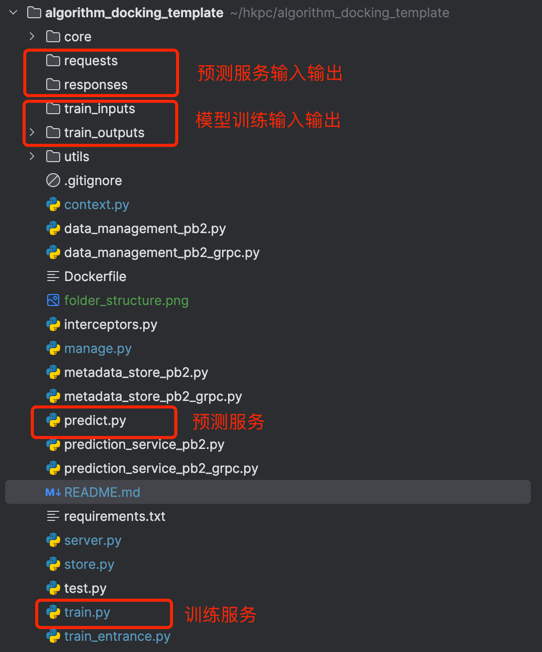
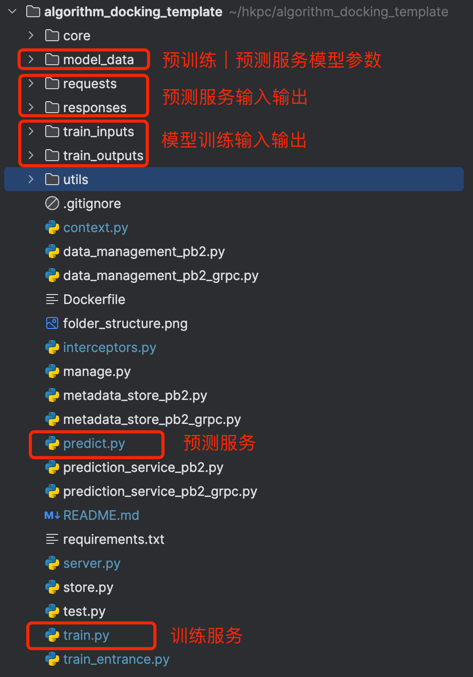
download model for pre-train and predict

Changed region(s): [[0.0, 0.0, 1.0, 1.0]]

diff --git a/train_entrance.py b/train_entrance.py
@@ -8,44 +8,54 @@ from datetime import datetime
 
 
 def main():
-    # 1. build context
+    # 1. build context and interceptor
     context = TrainingContext()
+    interceptor = TrainingInterceptor(context)
     # dataset
-    # context.set_inputs("tdu-platform-dm", "datasets/20/versions-snapshots/hashAABQ")
+    context.set_inputs("tdu-platform-dm", "datasets/20/versions-snapshots/hashAABQ")
     # create_task
-    # context.set_task_id("12")
+    context.set_task_id("16")
     print('\n ------ ------ ----- context initial ------ ------ ----- \n')
     print(datetime.now().strftime("%Y-%m-%d %H:%M:%S"), context.config)
     if context.is_prod():
         print('\n ------ ------ ----- data preparation ------ ------ ----- \n')
         # 2. remove inputs and outputs
-        remove_directory(Path(context.model_inputs_path))
-        print(datetime.now().strftime("%Y-%m-%d %H:%M:%S"), f'remove history inputs in {context.model_inputs_path}')
-        remove_directory(Path(context.model_outputs_path))
-        print(datetime.now().strftime("%Y-%m-%d %H:%M:%S"), f'remove history outputs in {context.model_outputs_path}')
+        remove_directory(Path(context.model_inputs_folder))
+        print(datetime.now().strftime("%Y-%m-%d %H:%M:%S"), f'remove history inputs in {context.model_inputs_folder}')
+        remove_directory(Path(context.model_outputs_folder))
+        print(datetime.now().strftime("%Y-%m-%d %H:%M:%S"), f'remove history outputs in {context.model_outputs_folder}')
+        remove_directory(Path(context.history_model_folder))
+        print(datetime.now().strftime("%Y-%m-%d %H:%M:%S"), f'remove history model in {context.history_model_folder}')
 
         repository = Repository(context.config.MINIO_SERVER, context.config.MINIO_SERVER_ACCESS_KEY,
                                 context.config.MINIO_SERVER_SECRET_KEY)
-        # 3. download dataset
+        # 3 download data
+        # 3.1 download dataset
         repository.download_input_paths(context.config.TRAINING_DATA_BUCKET, context.config.TRAINING_DATA_PATH,
-                                        context.model_inputs_path)
+                                        context.model_inputs_folder)
         print(datetime.now().strftime("%Y-%m-%d %H:%M:%S"),
               f'download current inputs from {context.config.TRAINING_DATA_BUCKET}/{context.config.TRAINING_DATA_PATH}')
+        repository.download_input_paths(context.get_model_bucket(), context.get_history_model_path(),
+                                        context.history_model_folder)
+        print(datetime.now().strftime("%Y-%m-%d %H:%M:%S"),
+              f'download history model from {context.get_model_bucket()}/{context.get_history_model_path()}')
+        interceptor.starting()
     # 4. model training
     print('\n ------ ------ ----- training ------ ------ ----- \n')
-    model = Model(context.model_inputs_path, context.model_outputs_path)
-    model.train()
-    if context.is_prod():
+    model = Model(context.model_inputs_folder, context.model_outputs_folder, context.history_model_folder)
+    t_result = model.train()
+    if t_result and context.is_prod():
         print('\n ------ ------ ----- result persistence ------ ------ ----- \n')
         # 5. store model
-        repository.upload_local_folder_to_minio(context.model_outputs_path, context.config.MODEL_BUCKET,
-                                                context.config.MODEL_OBJECT_NAME)
+        repository.upload_local_folder_to_minio(context.model_outputs_folder, context.get_model_bucket(),
+                                                context.get_model_path())
         print(datetime.now().strftime("%Y-%m-%d %H:%M:%S"),
-              f'upload current outputs to {context.config.MODEL_BUCKET}/{context.config.MODEL_OBJECT_NAME}')
-        interceptor = TrainingInterceptor(context)
+              f'upload current outputs to {context.get_model_bucket()}/{context.get_model_path()}')
         # 6. create artifact
-        artifact = interceptor.create_artifact()
+        artifact = interceptor.success()
         print(datetime.now().strftime("%Y-%m-%d %H:%M:%S"), "upload model files as artifact '{}'".format(artifact.name))
+    elif not t_result:
+        interceptor.failure()
     print('\n ------ ------ ----- FINISHED ! ------ ------ -----\n ')
 
 

diff --git a/server.py b/server.py
@@ -36,19 +36,26 @@ class PredictorServicer(prediction_service.PredictorServicer):
             path = data_info[1]
             if self.context.is_prod():
                 # 1. remove history request
-                remove_directory(Path(self.context.inputs_path))
-                print(f'remove history request in {self.context.inputs_path}')
-                remove_directory(Path(self.context.outputs_path))
-                print(f'remove history result in {self.context.outputs_path}')
-                # 2. download current request
-                self.repository.download_input_paths(bucket, path, self.context.inputs_path)
+                remove_directory(Path(self.context.inputs_folder))
+                print(f'remove history request in {self.context.inputs_folder}')
+                remove_directory(Path(self.context.outputs_folder))
+                print(f'remove history result in {self.context.outputs_folder}')
+                # 2.1 download current request
+                self.repository.download_input_paths(bucket, path, self.context.inputs_folder)
                 print(f'download request from {bucket}/{path}')
+            # 2.2 download model
+            if self.context.model_bucket and self.context.model_path:
+                remove_directory(Path(self.context.model_folder))
+                print(f'remove history result in {self.context.model_folder}')
+                self.repository.download_input_paths(self.context.model_bucket, self.context.model_path,
+                                                     self.context.model_folder)
+                print(f'download model from {self.context.model_bucket}/{self.context.model_path}')
             # 3. predict by model
             self.predict_service.predict()
             # 4. upload result to minio
             minio_path = f'{path}/outputs'
             if self.context.is_prod():
-                self.repository.upload_local_folder_to_minio(local_path=self.context.outputs_path, bucket_name=bucket,
+                self.repository.upload_local_folder_to_minio(local_path=self.context.outputs_folder, bucket_name=bucket,
                                                              minio_path=minio_path)
                 print(f'upload result to {bucket}/{minio_path}')
             print(datetime.now().strftime("%Y-%m-%d %H:%M:%S"), 'finish\n')
@@ -63,7 +70,7 @@ def main():
     context = PredictContext()
     repository = Repository(context.config.MINIO_SERVER, context.config.MINIO_SERVER_ACCESS_KEY,
                             context.config.MINIO_SERVER_SECRET_KEY)
-    predict_model = ModelPredict(context.inputs_path, context.outputs_path)
+    predict_model = ModelPredict(context.inputs_folder, context.outputs_folder, context.model_folder)
     prediction_service.add_PredictorServicer_to_server(
         PredictorServicer(context, repository, predict_model), server)
     health_servicer = health.HealthServicer(

diff --git a/context.py b/context.py
@@ -4,12 +4,10 @@ from core.settings import TrainingConfig, PredictConfig
 class TrainingContext:
     def __init__(self):
         self.config = TrainingConfig()
-        self.model_bucket = self.config.MODEL_BUCKET
-        self.model_path = self.config.MODEL_OBJECT_NAME
         self.algorithm_name = self.config.ALGORITHM_NAME
-        self.model_inputs_path = './train_inputs'
-        self.model_outputs_path = './train_outputs'
-        # self.model_data_path = './train_model_data'
+        self.model_inputs_folder = './train_inputs'
+        self.model_outputs_folder = './train_outputs'
+        self.history_model_folder = './model_data'
 
     def set_inputs(self, bucket, path):
         self.config.TRAINING_DATA_BUCKET = bucket
@@ -21,13 +19,26 @@ class TrainingContext:
     def is_prod(self):
         return self.config.ENV and "PROD".__eq__(self.config.ENV.upper())
 
+    def get_model_bucket(self):
+        return self.config.MODEL_BUCKET
+
+    def get_model_path(self):
+        # todo: how to get history task
+        return f'run_{self.config.JOB_ID}'
+
+    def get_history_model_path(self):
+        return f'run_{self.config.JOB_ID}'
+
 
 class PredictContext:
 
     def __init__(self):
         self.config = PredictConfig()
-        self.inputs_path = './requests'
-        self.outputs_path = './responses'
+        self.model_bucket = self.config.MODEL_BUCKET
+        self.model_path = self.config.MODEL_PATH
+        self.inputs_folder = './requests'
+        self.outputs_folder = './responses'
+        self.model_folder = './model_data'
 
     def is_prod(self):
         return self.config.ENV and "PROD".__eq__(self.config.ENV.upper())

diff --git a/core/settings.py b/core/settings.py
@@ -64,7 +64,7 @@ class TrainingConfig:
         ######################## define in the algorithm side ###########################
         self.MODEL_VERSION = "1.0"
         self.MODEL_SERVING_VERSION = os.getenv('MODEL_SERVING_VERSION') or "1.0"
-        self.MODEL_OBJECT_NAME = "run100"
+        self.MODEL_OBJECT_NAME = "model"
         self.ENV = os.environ.get('ENV') or "dev"
         ######################## static values that haven't defined in the platform ###########################
         # distributed training related settings
@@ -88,6 +88,8 @@ class PredictConfig:
             "{}={}".format("MINIO_SERVER", self.MINIO_SERVER),
             "{}={}".format("MINIO_SERVER_ACCESS_KEY", self.MINIO_SERVER_ACCESS_KEY),
             "{}={}".format("MINIO_SERVER_SECRET_KEY", self.MINIO_SERVER_SECRET_KEY),
+            "{}={}".format("MODEL_BUCKET", self.MODEL_BUCKET),
+            "{}={}".format("MODEL_PATH", self.MODEL_PATH),
         ]
         return "\n".join(results)
 
@@ -97,3 +99,5 @@ class PredictConfig:
         self.MINIO_SERVER = os.getenv('MINIO_SERVER') or "127.0.0.1:9000"
         self.MINIO_SERVER_ACCESS_KEY = os.getenv('MINIO_SERVER_ACCESS_KEY') or "foooo"
         self.MINIO_SERVER_SECRET_KEY = os.getenv('MINIO_SERVER_SECRET_KEY') or "barbarbar"
+        self.MODEL_BUCKET = os.getenv('MODEL_BUCKET') or "tdu-platform-ms"
+        self.MODEL_PATH = os.getenv('MODEL_PATH') or "artifacts/intent-classification-test-0918"

diff --git a/train.py b/train.py
@@ -3,15 +3,18 @@ from datetime import datetime
 
 class Model:
 
-    def __init__(self, inputs_path, outputs_path):
-        self.inputs_path = inputs_path
-        self.outputs_path = outputs_path
+    def __init__(self, inputs_folder, outputs_folder, history_model_folder):
+        self.inputs_folder = inputs_folder
+        self.outputs_folder = outputs_folder
+        self.history_model_folder = history_model_folder
+        self.result = True
 
     def train(self):
-        print(datetime.now().strftime("%Y-%m-%d %H:%M:%S"), 'load dataset from {0}'.format(self.inputs_path))
+        print(datetime.now().strftime("%Y-%m-%d %H:%M:%S"), 'load dataset from {0}'.format(self.inputs_folder))
 
         # codes of algorithm
         print('training')
         # codes of algorithm
 
-        print(datetime.now().strftime("%Y-%m-%d %H:%M:%S"), 'save model in {0}'.format(self.outputs_path))
+        print(datetime.now().strftime("%Y-%m-%d %H:%M:%S"), 'save model in {0}'.format(self.outputs_folder))
+        return self.result

diff --git a/predict.py b/predict.py
@@ -1,14 +1,15 @@
 class ModelPredict:
 
-    def __init__(self, inputs_path, outputs_path):
-        self.inputs_path = inputs_path
-        self.outputs_path = outputs_path
+    def __init__(self, inputs_folder, outputs_folder, model_folder):
+        self.inputs_folder = inputs_folder
+        self.outputs_folder = outputs_folder
+        self.model_folder = model_folder
 
     def predict(self):
-        print('load input from {0}'.format(self.inputs_path))
+        print('load input from {0}'.format(self.inputs_folder))
 
         # codes of algorithm
         print('predict')
         # codes of algorithm
 
-        print('save result in {0}'.format(self.outputs_path))
+        print('save result in {0}'.format(self.outputs_folder))

diff --git a/interceptors.py b/interceptors.py
@@ -11,6 +11,13 @@ class TrainingInterceptor:
                                                 context.config.MODEL_VERSION,
                                                 context.config.MODEL_NAME)
 
-    def create_artifact(self):
+    def starting(self):
+        self.interceptor.log_run_start()
+
+    def failure(self):
+        self.interceptor.log_run_end(True, 'fail to complete training job.')
+
+    def success(self):
+        self.interceptor.log_run_end(True, 'success to complete training job.')
         return self.interceptor.create_artifact(self.context.model_bucket, self.context.model_path,
                                                 self.context.algorithm_name)

diff --git a/README.md b/README.md
@@ -5,25 +5,33 @@
 ## 2. 算法开发
 
 ### 2.1 算法代码
+默认训练成功，可以添加熟练失败的逻辑
+
 path: train.py
 ```train.py
 class Model:
 
-    def __init__(self, inputs_path, outputs_path):
-        self.inputs_path = inputs_path
-        self.outputs_path = outputs_path
+        def __init__(self, inputs_folder, outputs_folder, history_model_folder):
+        self.inputs_folder = inputs_folder
+        self.outputs_folder = outputs_folder
+        self.history_model_folder = history_model_folder
+        self.result = True
 
     def train(self):
-        print('load dataset from {0}'.format(self.inputs_path))
+        print(datetime.now().strftime("%Y-%m-%d %H:%M:%S"), 'load dataset from {0}'.format(self.inputs_folder))
 
         # codes of algorithm
         print('training')
         # codes of algorithm
 
-        print('save model in {0}'.format(self.outputs_path))
+        print(datetime.now().strftime("%Y-%m-%d %H:%M:%S"), 'save model in {0}'.format(self.outputs_folder))
+        return self.result
 ```
-self.inputs_path 对应文件夹train_inputs
-self.outputs_path 对应文件夹train_outputs
+self.inputs_folder 对应文件夹train_inputs
+
+self.outputs_folder 对应文件夹train_outputs
+
+self.history_model_folder 对应文件夹model_data
 
 ### 2.2 本地调试模型训练
 （1）安装依赖包
@@ -54,21 +62,25 @@ path: predict.py
 ```predict.py
 class ModelPredict:
 
-    def __init__(self, inputs_path, outputs_path):
-        self.inputs_path = inputs_path
-        self.outputs_path = outputs_path
+        def __init__(self, inputs_folder, outputs_folder, model_folder):
+        self.inputs_folder = inputs_folder
+        self.outputs_folder = outputs_folder
+        self.model_folder = model_folder
 
     def predict(self):
-        print('load input from {0}'.format(self.inputs_path))
+        print('load input from {0}'.format(self.inputs_folder))
 
         # codes of algorithm
         print('predict')
         # codes of algorithm
 
-        print('save result in {0}'.format(self.outputs_path))
+        print('save result in {0}'.format(self.outputs_folder))
 ```
-self.inputs_path 对应文件夹requests
-self.outputs_path 对应文件夹response
+self.inputs_folder 对应文件夹requests
+
+self.outputs_folder 对应文件夹response
+
+self.model_folder 对应文件夹model_data
 
 ### 3.2 本地调试预测服务
 （1）安装依赖包
